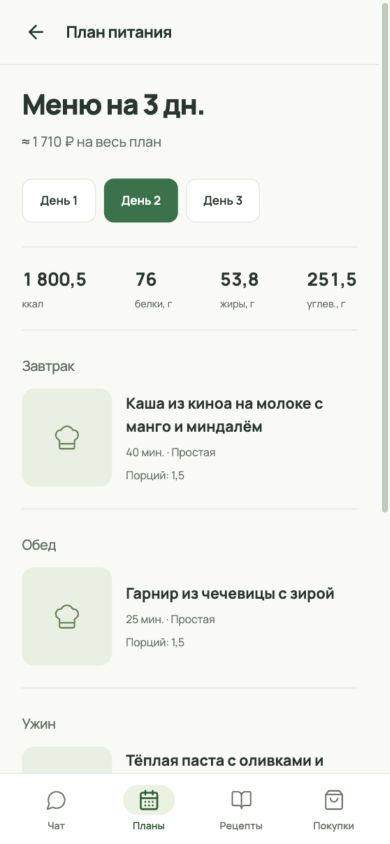
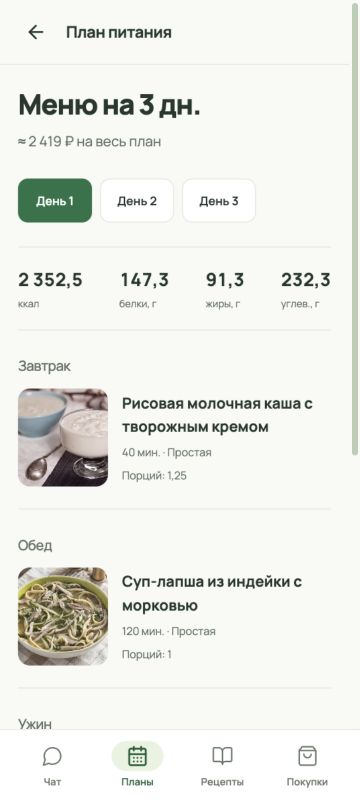
Show chat and recipe photos in README screenshots

diff --git a/README.md b/README.md
@@ -6,9 +6,9 @@
 
 ## Интерфейс
 
-| План питания | Покупки |
+| Чат с ассистентом | План с фотографиями блюд |
 | :---: | :---: |
-| <img src="docs/images/meal-plan.jpg" alt="План питания: дни, блюда, порции и КБЖУ" width="280"> | <img src="docs/images/shopping-list.jpg" alt="Список покупок: товары, отметки купленного и недостающие позиции" width="280"> |
+| <img src="docs/images/chat.jpg" alt="Чат с ассистентом: поле сообщения и быстрые действия" width="280"> | <img src="docs/images/meal-plan.jpg" alt="План питания с фотографиями блюд, порциями и КБЖУ" width="280"> |
 
 ## Запуск
 
